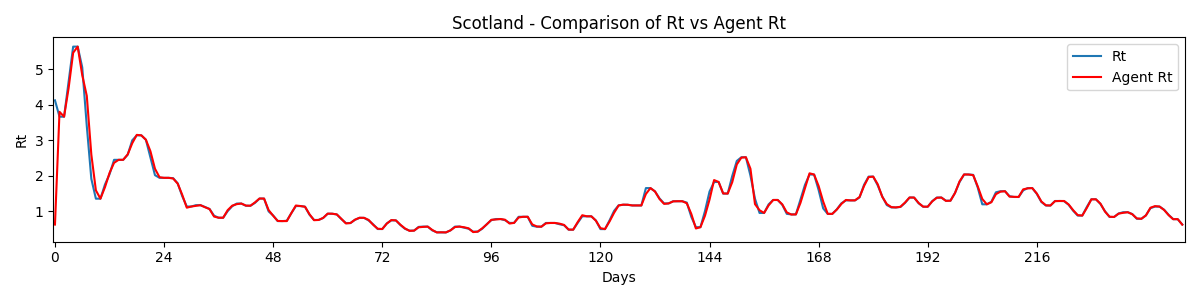
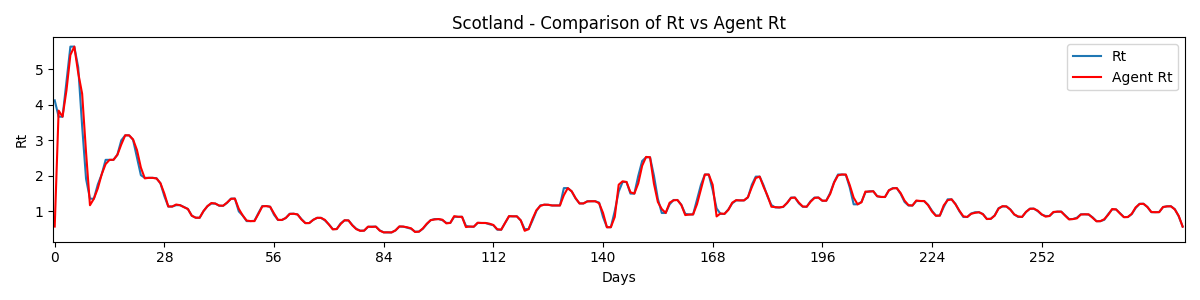
Updated rtPredictor.py
Cleaned up main() by putting the different parts into their own functions.

Prepared parts of the functions for the introduction of new agent types.

Changed how the difference it handled in what is now evaluateAgentPerformance into something that seems to produce results as intended in a more readable manner.

Ran rtPredictor on the newly updated UK dataset, resulting in more days being present for each region and the consolidation of the Welsh counties into Wales.

diff --git a/code/machine learning/rtPredictor.py b/code/machine learning/rtPredictor.py
@@ -23,28 +23,7 @@ REGIONS = {
     9 : "Yorkshire and the Humber",
     10 : "Northern Ireland",
     11 : "Scotland",
-    12 : "Blaenau gwent",
-    13 : "Caerphilly",
-    14 : "Monmouthshire",
-    15 : "Newport",
-    16 : "Torfaen",
-    17 : "Conwy",
-    18 : "Denbighshire",
-    19 : "Flintshire",
-    20 : "Gwynedd",
-    21 : "Isle of Anglesey",
-    22 : "Wrexham",
-    23 : "Cardiff",
-    24 : "Vale of Glamorgan",
-    25 : "Bridgend",
-    26 : "Merthyr Tydfil",
-    27 :"Rhondda Cynon Taf",
-    28 : "Carmarthenshire",
-    29 :"Ceredigion",
-    30 : "Pembrokeshire",
-    31 : "Powys",
-    32 : "Neath Port Talbot",
-    33 : "Swansea",
+    12 : "Wales",
 }
 
 filePath = "../../data/core/uk/Rt/uk_Rt.csv"
@@ -330,28 +309,49 @@ def createGraph(origRt, agentRt, regionNo):
     plt.savefig(f"../../images/Rt/machine learning/rt/{regionNo+1}.png")
     plt.close()
 
+def runAgent(potentialActionLists, regionRt, agentType="greedy"):
+    """
+    Given the actions lists that the agent can take for each region, have it try to match
+    as closely as possible to the actual Rt as it can.
 
-def main():
-    regionRt = readFile("uk",filePath)
-
-    rtValueChange = getRtValueChange(regionRt)
-
-    rtValueChange = convertRtValues(rtValueChange)
-
-    regionalPotentialActionLists = getPotentialActionLists(rtValueChange)
+    INPUTS:
+        :param potentialActionLists: List of lists, containing the potential alterations the agent can make for each region
+        :param regionRt: List of lists, containing the Rt values for each day within each region
+        :param agentType: String, which type of agent will be use to try and mimic the Rt value
+    
+    OUTPUT:
+        returns the results of running the agent on each region within the dataset
+    """
     regionalAgentResults = []
     for currIndex in range(len(regionRt)):
-        currRegionActionList = regionalPotentialActionLists[currIndex]
+        currActionList = potentialActionLists[currIndex]
         currRegionRt = regionRt[currIndex]
 
-        
-        agentResults = greedyAgent(currRegionRt, currRegionActionList)
+        if agentType.lower() == "greedy":
+            agentResults = greedyAgent(currRegionRt, currActionList)
 
         agentRt = [currRt for currRt, _ in agentResults]
 
         createGraph(currRegionRt, agentRt, currIndex)
         regionalAgentResults.append(agentResults)
+        
+    return regionalAgentResults
 
+def runEvaluationAgent(potentialActionLists, regionRt, regionalAgentResults, agentType="greedy"):
+    """
+    Determine how effective the agent's attempt to mimic the Rt is through re-running the agent, but this time,
+    removing the actions that it took from its decision making.
+
+    INPUTS:
+        :param potentialActionLists: List of lists, containing the potential alterations the agent can make for each region
+        :param regionRt: List of lists, containing the Rt values for each day within each region
+        :param regionalAgentResults: List of lists, containing all information relating to the actions of the original agent (see runAgent())
+        :param agentType: String, which type of agent will be use to try and mimic the Rt value
+    
+    OUTPUTS:
+        returns a list of lists containing tuples within which it contains the range of indexes that the current group covers,
+                and the result for each point after denying it the action originally taken.
+    """
     regionEvaluationGroups = [[] for _ in regionRt]
 
     #For each region, get the start and end index for each group, along with the index of the goal value
@@ -379,8 +379,9 @@ def main():
                 #Due to this being the start val, replace with the agent Rt
                 currRegionSubset[0] = agentRt
 
-                agentResults = greedyAgent(currRegionSubset, regionalPotentialActionLists[currRegionIndex], firstValue=False, 
-                                            evaluatePoint=True, evaluateIndex=0, evaluateAction=agentAction)
+                if agentType.lower() == "greedy":
+                    agentResults = greedyAgent(currRegionSubset, potentialActionLists[currRegionIndex], firstValue=False, 
+                                                evaluatePoint=True, evaluateIndex=0, evaluateAction=agentAction)
                 #Remove the value since it is no longer needed
                 currRegionSubset.pop(0)
                 
@@ -393,17 +394,30 @@ def main():
             if ignoreCurrentValues == False:
                 regionEvaluationGroups[currRegionIndex].append(((startIndex, goalIndex), currGroup))
 
-    print("----")    
+    return regionEvaluationGroups
 
+def evalutateAgentPerformance(regionRt, regionalAgentResults, regionalEvaluationGroups):
+    """
+    Using the results of the evaluation agent and the original agent, find which point within the group
+    provided the most impactful change on the evaluation agents attempt to reach the goal index.
+
+    Where most impactful refers to the idea that if the denial of an action or actions from a specific point
+    results in a adversely (larger) effected difference from the goal value (original Rt value).
+
+    INPUTS:
+        :param regionRt: List of lists, containing the Rt values for each day within each region
+        :param regionalAgentResults: List of lists, containing all information relating to the original agent's actions (see runAgent())
+        :param regionalEvaluationGroups: List of lists, containing all the information relating to the evaluation agent's actions (see runEvaluationAgent())
+    """
     regionalGroupResults = []
     
     #Compare the original agent action, with the newer attempts
     for currRegionIndex in range(len(regionalAgentResults)):
         currRegionGroupResults = []
         
-        for currGroupIndex in range(len(regionEvaluationGroups[currRegionIndex])):
+        for currGroupIndex in range(len(regionalEvaluationGroups[currRegionIndex])):
             #Get the information about the current group
-            indexs, group = regionEvaluationGroups[currRegionIndex][currGroupIndex]
+            indexs, group = regionalEvaluationGroups[currRegionIndex][currGroupIndex]
             startIndex, goalIndex = indexs
             
             #Get the distance of the original attempt
@@ -412,26 +426,50 @@ def main():
 
             if agentRtDifference < 0:
                 agentRtDifference = -agentRtDifference
-            
-            mostImpactfulPoints = None
-            prevDifference = 0
-            #Go through the eval point results and compare to the original result
-            #to find which is the most impactful
-            for currIndex in range((goalIndex) - startIndex):
-                currGroupDifference = group[currIndex][1]
-                if currGroupDifference < 0:
-                    currGroupDifference = -currGroupDifference
                 
-                if prevDifference < currGroupDifference > agentRtDifference:
-                    if currGroupDifference == prevDifference:
-                        mostImpactfulPoints.append(currIndex)
-                    else:
-                        prevDifference = currGroupDifference
-                        mostImpactfulPoints = [currIndex]
+            currentlyImpactfulPoints = []
+            prevDifference = 0
 
-            currRegionGroupResults.append((mostImpactfulPoints, prevDifference))
+            for currIndex in range(goalIndex - startIndex):
+                currEvalAgentsDifference = group[currIndex][1]
+                if currEvalAgentsDifference < 0:
+                    currEvalAgentsDifference = -currEvalAgentsDifference
+
+                #Reduce the evaluation agents Rt difference with the original's
+                agentDifference = currEvalAgentsDifference - agentRtDifference
+
+                if agentDifference < 0:
+                    agentDifference = -agentDifference
+                
+                if prevDifference < agentDifference:
+                    prevDifference = agentDifference
+                    currentlyImpactfulPoints = [currIndex]
+                
+                elif prevDifference == agentDifference:
+                    currentlyImpactfulPoints.append(currIndex)
+
+            currRegionGroupResults.append((currentlyImpactfulPoints, prevDifference))
         
         regionalGroupResults.append(currRegionGroupResults)
+    
+    return regionalGroupResults
+
+def main():
+    regionRt = readFile("uk",filePath)
+
+    rtValueChange = getRtValueChange(regionRt)
+
+    rtValueChange = convertRtValues(rtValueChange)
+
+    regionalPotentialActionLists = getPotentialActionLists(rtValueChange)
+    
+    regionalAgentResults = runAgent(regionalPotentialActionLists, regionRt)
+
+    print("----") 
+
+    regionalEvaluationGroups = runEvaluationAgent(regionalPotentialActionLists, regionRt, regionalAgentResults)
+
+    regionalGroupResults = evalutateAgentPerformance(regionRt, regionalAgentResults, regionalEvaluationGroups)
                 
     for currRegion in regionalGroupResults[0]:
         #for currGroup in currRegion:
